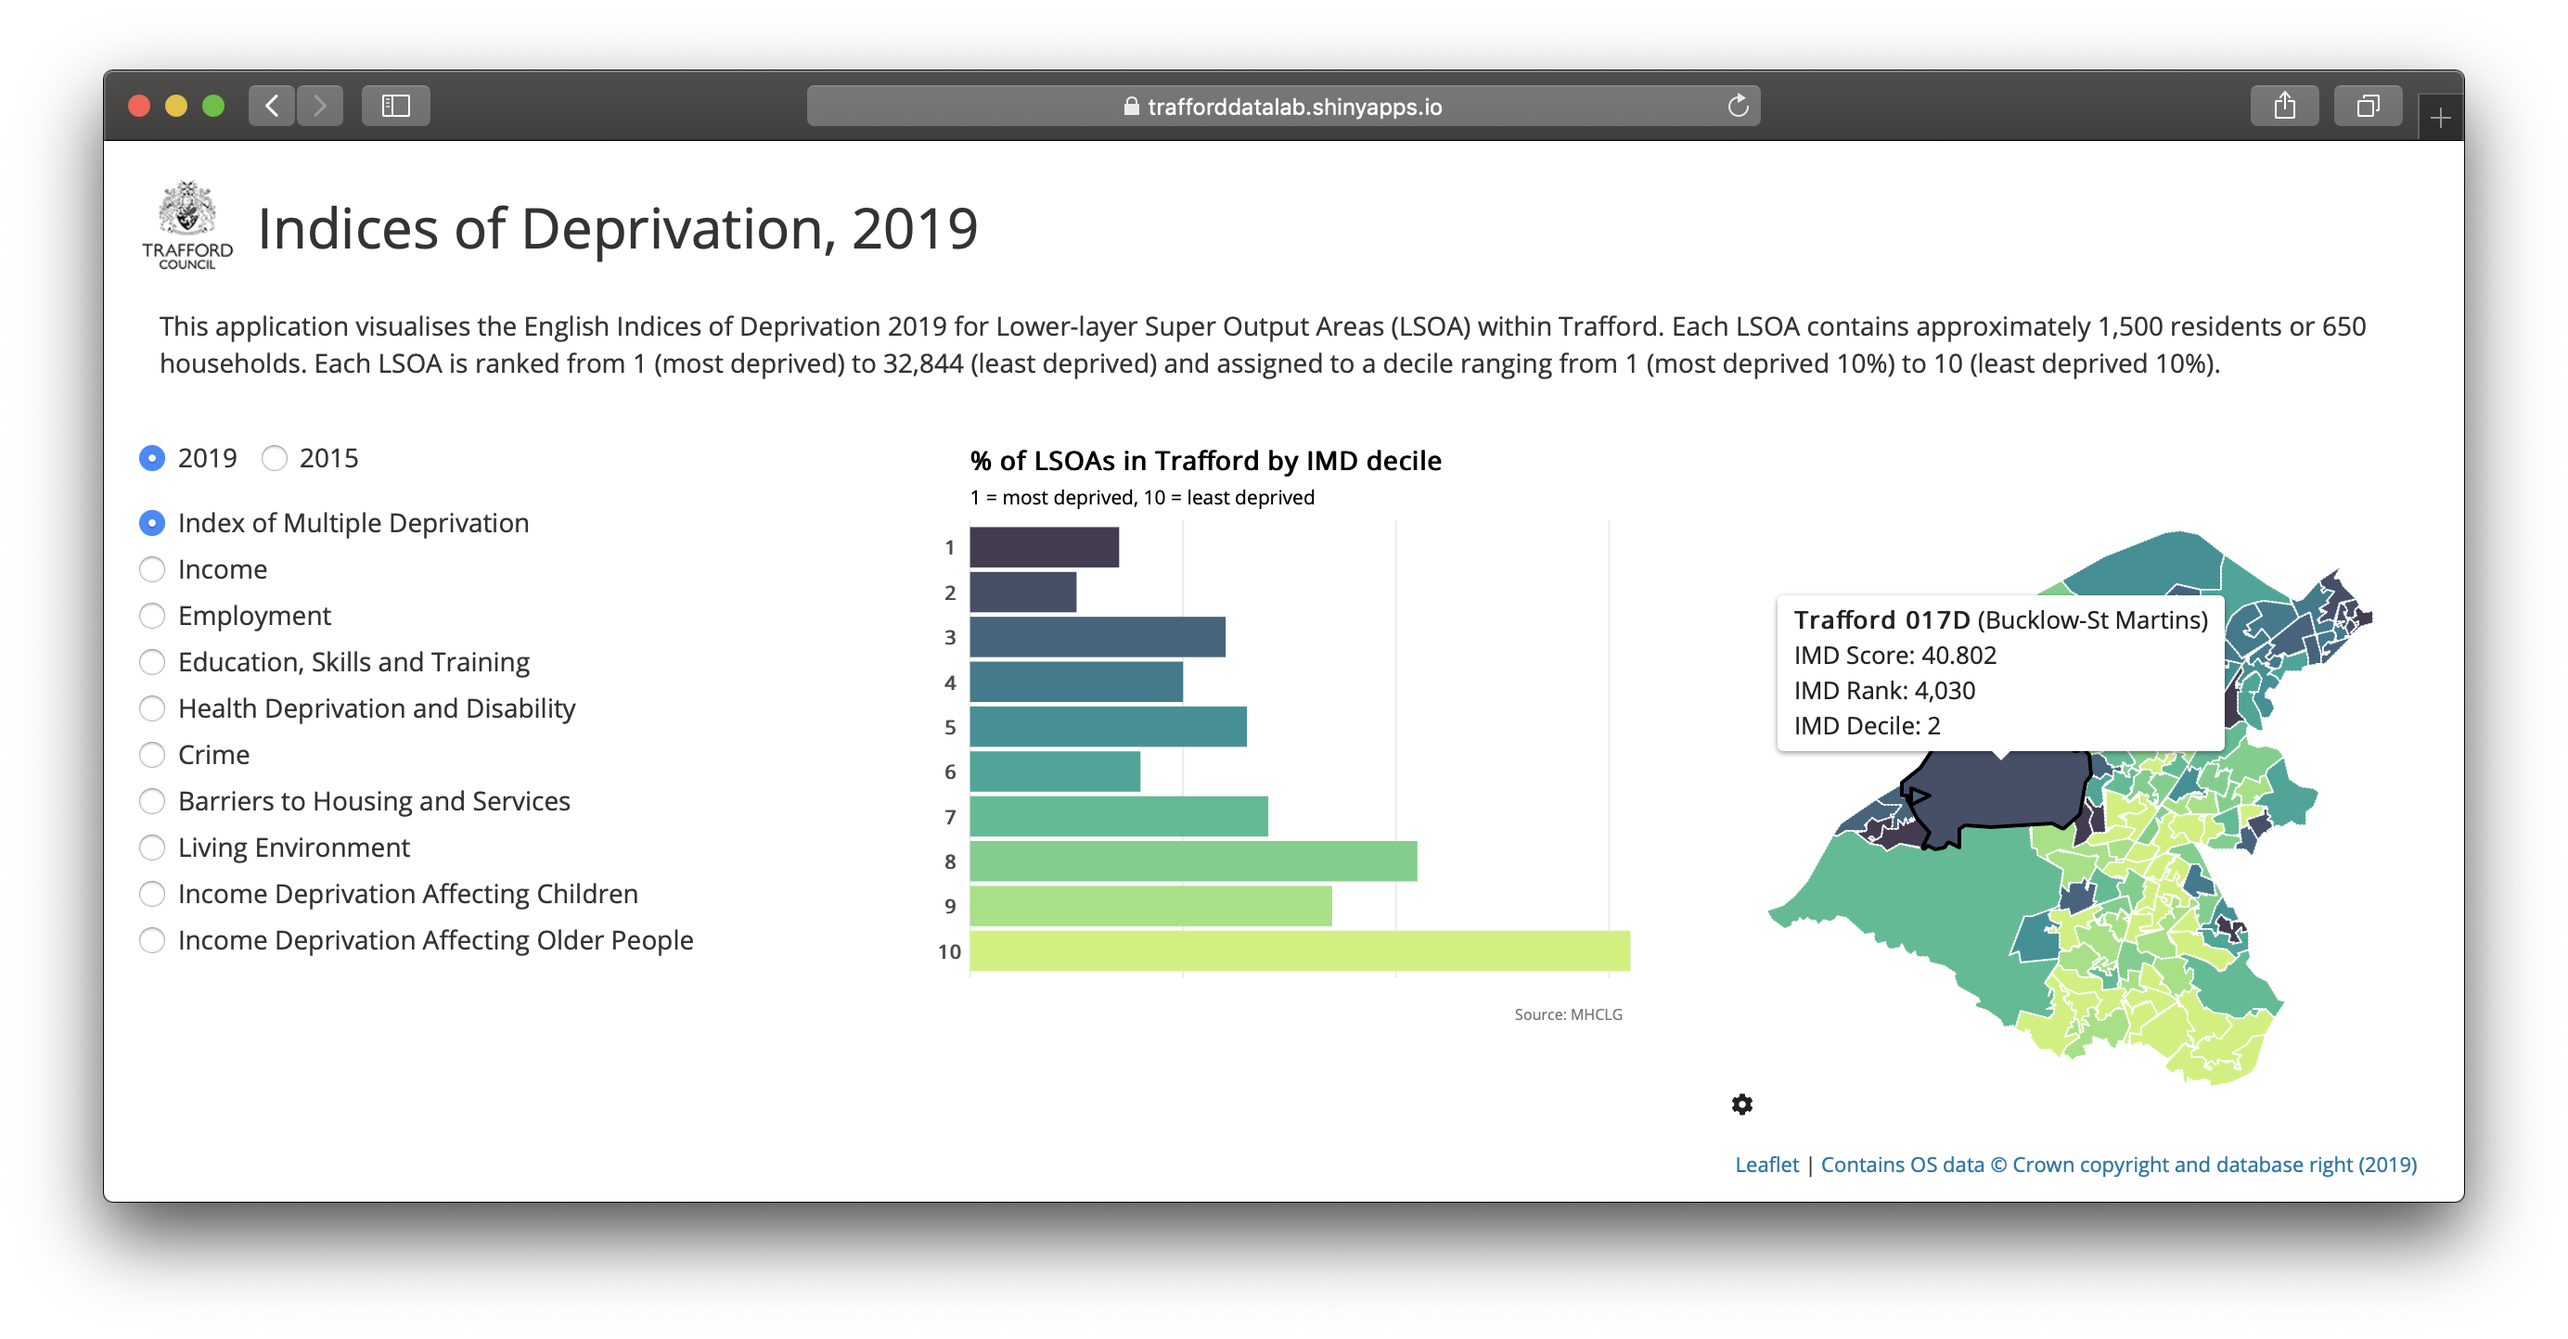
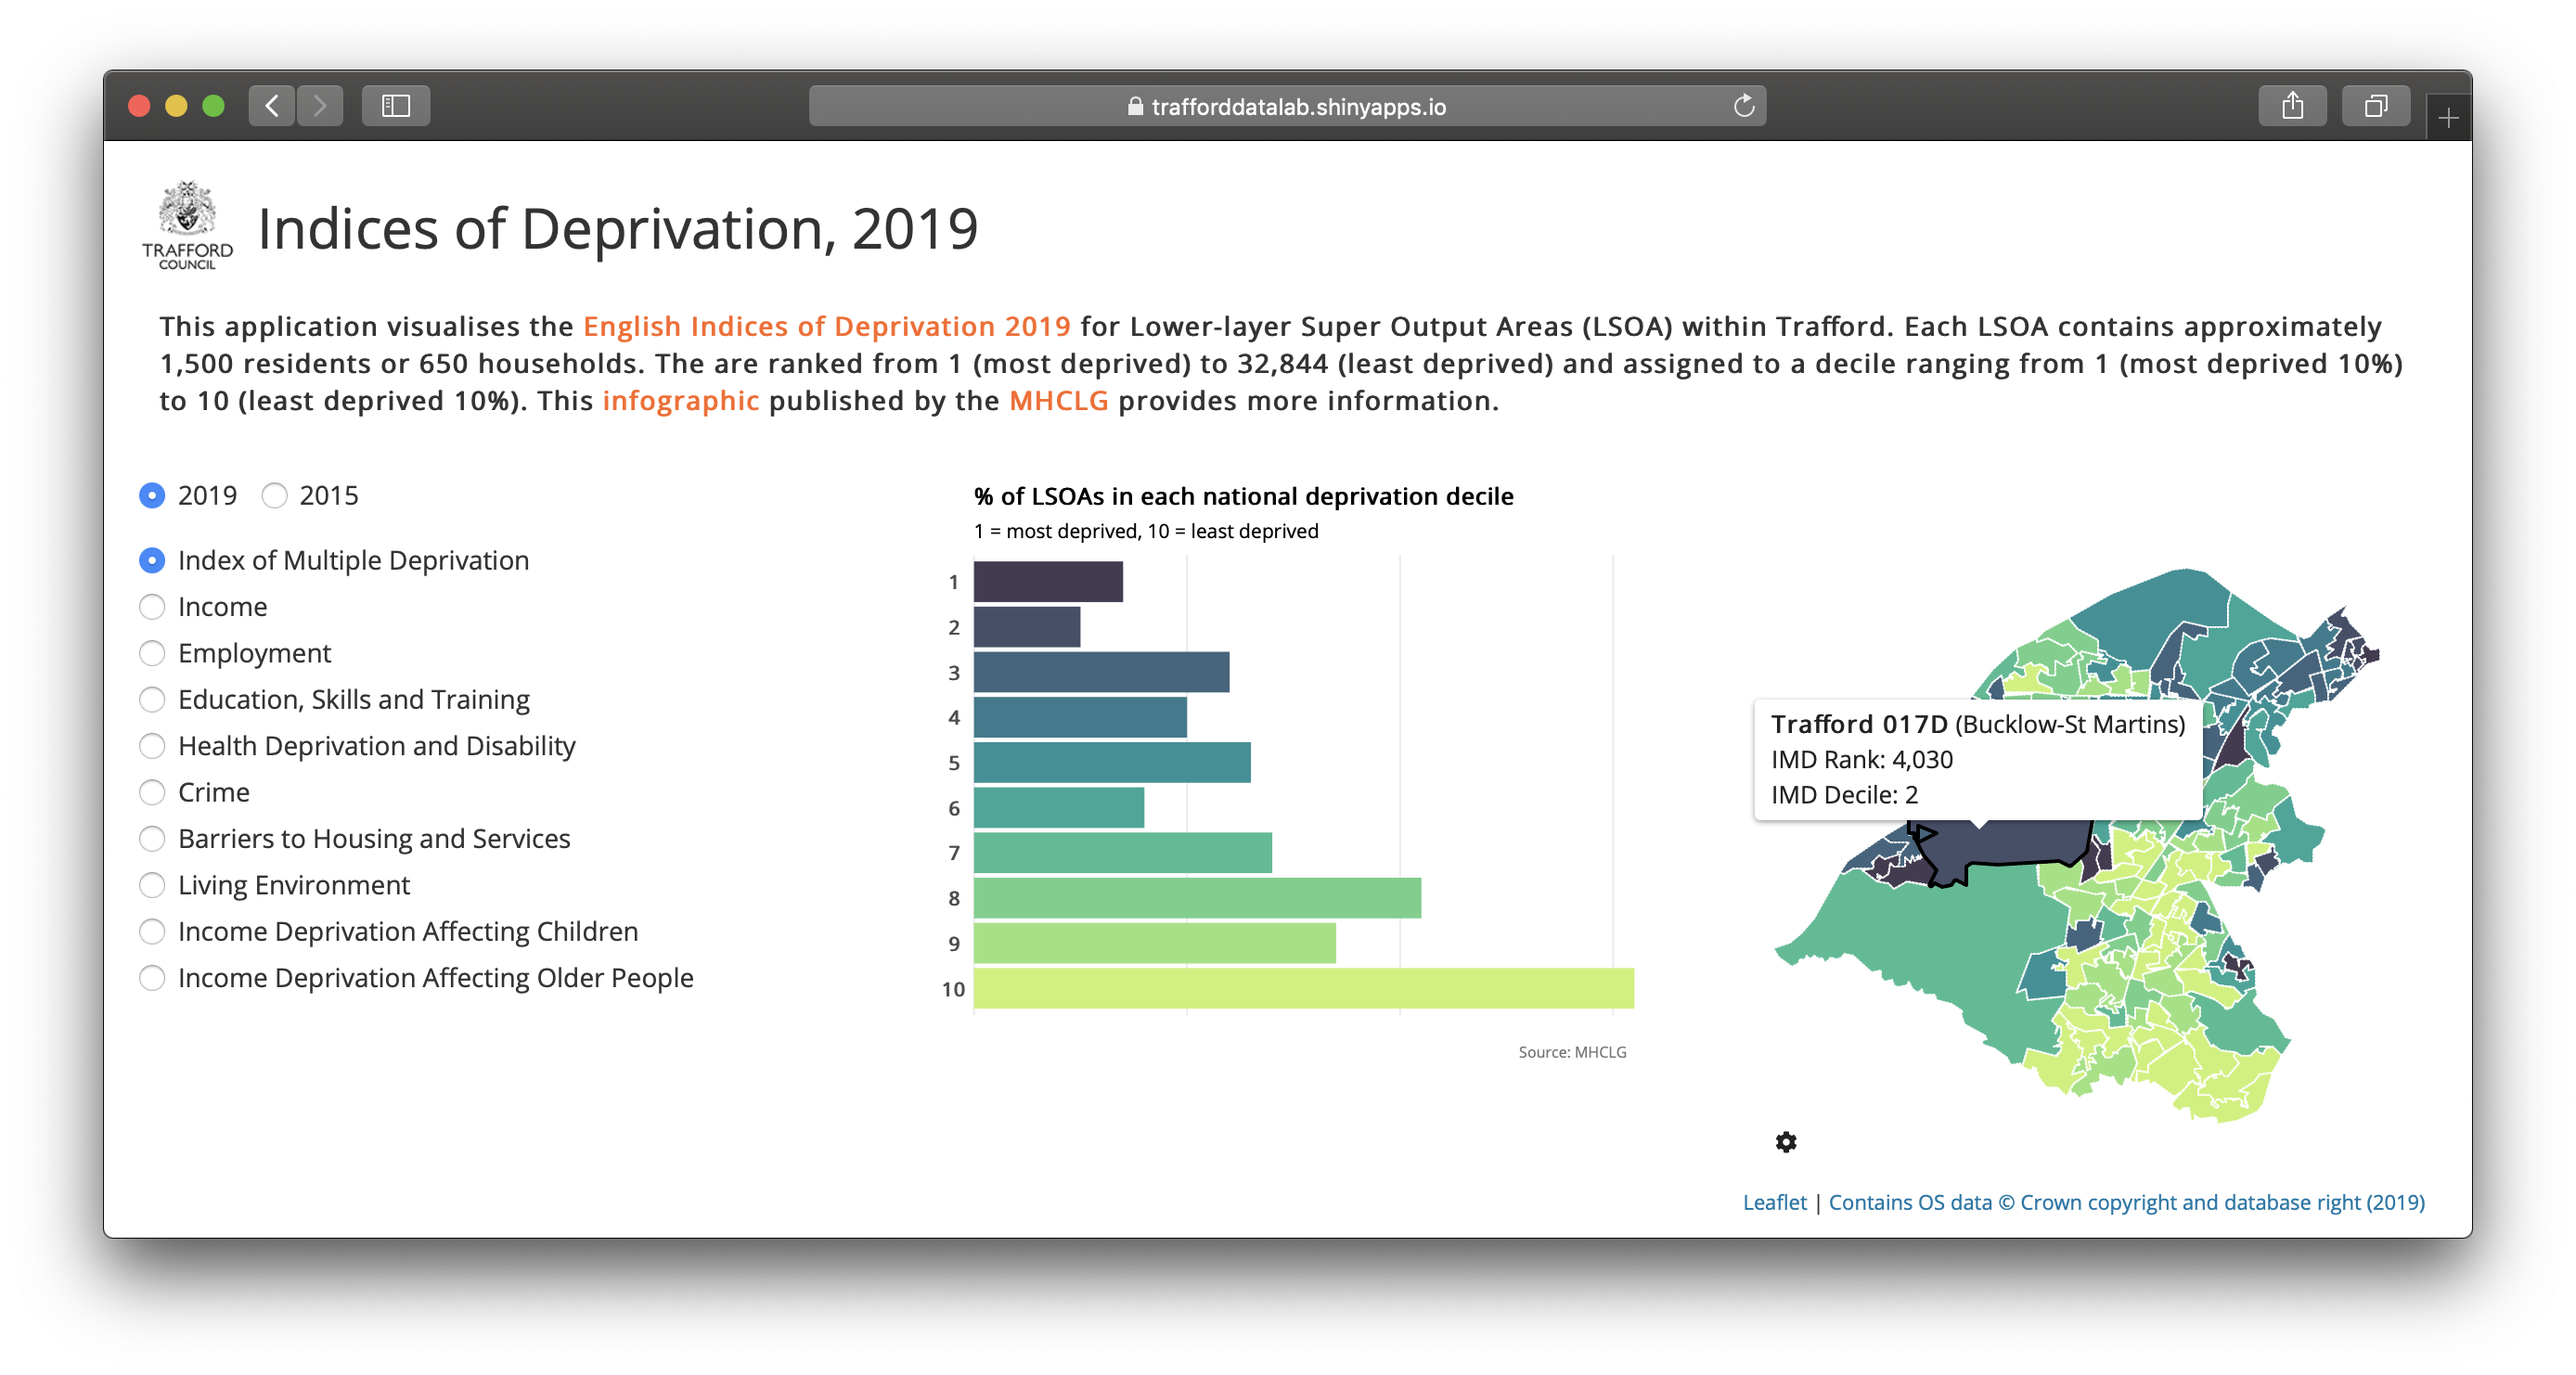
Tweaks
- Updated introduction with links
- Removed IMD score

diff --git a/intro.html b/intro.html
@@ -1,0 +1,1 @@
+<p style="text-align: left;font-weight: bold; margin-left: 30px;margin-right: 30px;">This application visualises the <a href="https://www.gov.uk/government/statistics/english-indices-of-deprivation-2019" target="_blank">English Indices of Deprivation 2019</a> for Lower-layer Super Output Areas (LSOA) within Trafford. Each LSOA contains approximately 1,500 residents or 650 households. The are ranked from 1 (most deprived) to 32,844 (least deprived) and assigned to a decile ranging from 1 (most deprived 10%) to 10 (least deprived 10%). This <a href="https://assets.publishing.service.gov.uk/government/uploads/system/uploads/attachment_data/file/833959/IoD2019_Infographic.pdf" target="_blank">infographic</a> published by the <a href="https://www.gov.uk/government/organisations/ministry-of-housing-communities-and-local-government" target="_blank">MHCLG</a> provides more information.</p>

diff --git a/styles.css b/styles.css
@@ -44,7 +44,3 @@ button:active {
     padding-left:10px !important;
     padding-bottom:10px !important;
 }
-
-#intro {
-  margin-left: 30px;
-}
